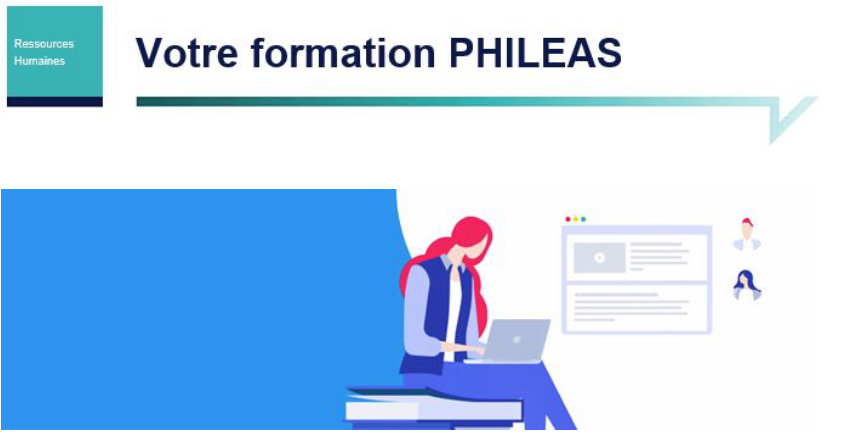
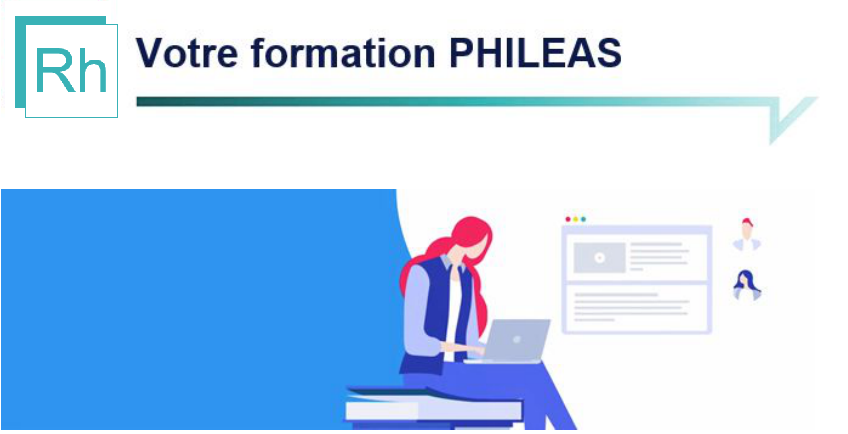
change header-email img + instructor dashboard display

Changed region(s): [[0.0, 0.0, 0.1533, 0.2696]]

diff --git a/lms/static/tma-static/js/instructor-dashboard-custom.js b/lms/static/tma-static/js/instructor-dashboard-custom.js
@@ -1,14 +1,22 @@
 "use strict";
 
 const getLightDashboard = function() {
+    // Relocate
     window.location.hash = '#view-membership';
+    // Remove active class on all sections except membership
     $('#course_info, #cohort_management, #discussions_management, #student_admin, #data_download, #instructor_analytics').removeClass('active-section');
+    // Add active class on membership
     $('#membership').addClass('active-section');
+    // Hide section titles + membership titles + other stuff
     $('.course_info, .cohort_management, .discussions_management, .student_admin, .data_download, .instructor_analytics').hide();
-    $('.role, .enroll-option, .enrollment-button[data-action="unenroll"], .batch-beta-testers, .member-lists-management, hr.divider').hide();
+    $('.role, .enroll-option, .enrollment-button[data-action="unenroll"], .batch-beta-testers, .member-lists-management, hr.divider, #header-membership, #heading-batch-enrollment').hide();
 };
 
 $(document).ready(function(){
+    const date = new Date()
+    // Autofill reason field for membership section
+    $('#reason-field-id').text('User enrolled - '+ date.getDate()+'-'+(date.getMonth()+1)+'-'+date.getFullYear())
+
     // Light dashboard by default
     window.location.hash = '#view-membership';
     $('.switch-instructor > input[type="checkbox"]').prop('checked', true);
@@ -22,7 +30,7 @@ $(document).ready(function(){
         getLightDashboard();
         } else {
         $('.course_info, .cohort_management, .discussions_management, .student_admin, .data_download, .instructor_analytics').show();
-        $('.role, .enroll-option, .enrollment-button[data-action="unenroll"], .batch-beta-testers, .member-lists-management, hr.divider').show();
+        $('.role, .enroll-option, .enrollment-button[data-action="unenroll"], .batch-beta-testers, .member-lists-management, hr.divider, #header-membership, #heading-batch-enrollment').show();
         }
     });
 });

diff --git a/lms/templates/instructor/instructor_dashboard_2/membership.html b/lms/templates/instructor/instructor_dashboard_2/membership.html
@@ -10,7 +10,7 @@ from openedx.core.djangolib.markup import HTML, Text
     <label>
         ${_("Enter email addresses and/or usernames separated by new lines or commas.")}
         ${_("You will not get notification for emails that bounce, so please double-check spelling.")}
-        <textarea rows="6" name="student-ids" placeholder="${_("Email Addresses/Usernames")}" spellcheck="false"></textarea>
+        <textarea rows="6" name="student-ids" placeholder="${_('Email Addresses')}" spellcheck="false"></textarea>
     </label>
 
     <div class="role">
